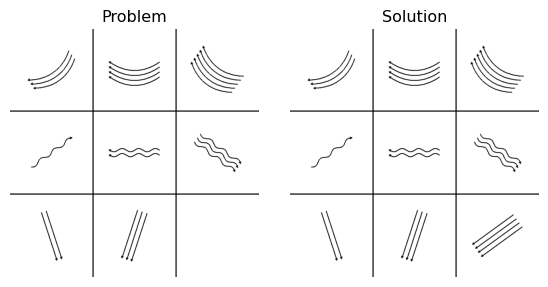
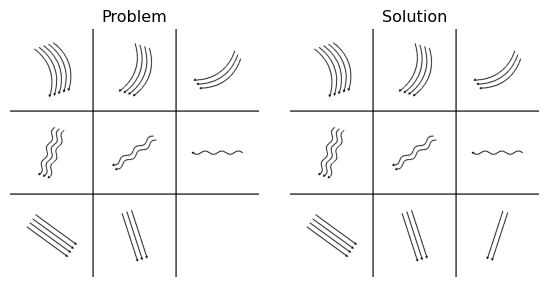
update docs

diff --git a/omss_documentation.md b/omss_documentation.md
@@ -20,6 +20,7 @@ levels.
   - [BigShape](#BigShape)
   - [LittleShape](#LittleShape)
   - [Line](#Line)
+  - [Multiple elements](#Multiple-Elements)
 - [Alternatives Generation](#alternatives-generation)
 - [Seeds](#seeds)
 - [Matrix Generation](#matrix-generation)
@@ -69,7 +70,8 @@ by the user with **Rules**.
   Default: `False`.
 
 - **`element_types`** (`list` or `None`, optional):  
-  Specifies which elements to include in the matrix.
+  Specifies which elements to include in the matrix and the order in
+  which they will be drawn.
 
   - If `None`, all elements listed in the `rules` will be used.  
     Default: `None`.
@@ -673,7 +675,82 @@ plot_matrices(solution_matrix, problem_matrix)
 
 ![](omss_documentation_files/figure-commonmark/cell-15-output-1.png)
 
-------------------------------------------------------------------------
+### Multiple Elements
+
+It is also possible to combine multiple elements into a single puzzle!
+To do this, simply expand the `rules` dictionary by adding rule sets for
+additional elements.
+
+##### Examples
+
+Let’s combine a `BigShape` and a `Line` element in one puzzle. We’ll
+start by defining rules for `BigShape`, assigning a `DISTRIBUTE_THREE`
+rule to the `COLOR` attribute. Then, we’ll add a `Line` entry to the
+dictionary with a `PROGRESSION` rule for `LINENUMBER`:
+
+``` python
+import omss
+from omss import Ruletype, AttributeType, Rule, create_matrix, plot_matrices
+
+rules = {
+    'BigShape': [       
+        Rule(Ruletype.CONSTANT, AttributeType.SHAPE),
+        Rule(Ruletype.CONSTANT, AttributeType.ANGLE),
+        Rule(Ruletype.DISTRIBUTE_THREE, AttributeType.COLOR),
+        Rule(Ruletype.CONSTANT, AttributeType.NUMBER),
+        Rule(Ruletype.FULL_CONSTANT, AttributeType.SIZE, value = 'medium')],
+
+      'Line': [       
+        Rule(Ruletype.CONSTANT, AttributeType.LINETYPE),
+        Rule(Ruletype.CONSTANT, AttributeType.ANGLE),
+        Rule(Ruletype.PROGRESSION, AttributeType.LINENUMBER)]}
+    
+
+#create the matrices
+solution_matrix, problem_matrix, = create_matrix(rules, save = False)
+
+#plot the matrices
+plot_matrices(solution_matrix, problem_matrix)
+```
+
+![](omss_documentation_files/figure-commonmark/cell-16-output-1.png)
+
+As you can see, the `Line` element is placed on top of the `BigShape`
+element. Elements that are defined later in the dictionairy are drawn
+upon earlier elements.
+
+It is also possible to adjust the rendering order of elements, or
+exclude certain elements entirely, by using the **`element_types`**
+argument. For example, even if `BigShape` is defined in the `rules`
+dictionary, we can omit it from being rendered by only specifying the
+`Line` element in `element_types`.
+
+``` python
+import omss
+from omss import Ruletype, AttributeType, Rule, create_matrix, plot_matrices
+
+rules = {
+    'BigShape': [       
+        Rule(Ruletype.CONSTANT, AttributeType.SHAPE),
+        Rule(Ruletype.CONSTANT, AttributeType.ANGLE),
+        Rule(Ruletype.DISTRIBUTE_THREE, AttributeType.COLOR),
+        Rule(Ruletype.CONSTANT, AttributeType.NUMBER),
+        Rule(Ruletype.FULL_CONSTANT, AttributeType.SIZE, value = 'medium')],
+
+      'Line': [       
+        Rule(Ruletype.CONSTANT, AttributeType.LINETYPE),
+        Rule(Ruletype.CONSTANT, AttributeType.ANGLE),
+        Rule(Ruletype.PROGRESSION, AttributeType.LINENUMBER)]}
+    
+
+#create the matrices
+solution_matrix, problem_matrix, = create_matrix(rules, save = False, element_types = ['Line'])
+
+#plot the matrices
+plot_matrices(solution_matrix, problem_matrix)
+```
+
+![](omss_documentation_files/figure-commonmark/cell-17-output-1.png)
 
 ## Alternatives Generation
 
@@ -744,7 +821,7 @@ solution_matrix, problem_matrix, alternatives = create_matrix(rules, alternative
 plot_matrices(solution_matrix, problem_matrix, alternatives)
 ```
 
-![](omss_documentation_files/figure-commonmark/cell-16-output-1.png)
+![](omss_documentation_files/figure-commonmark/cell-18-output-1.png)
 
 As you can see, both the `COLOR` and `LITTLESHAPENUMBER` attributes were
 modified in the alternatives. This makes sense: they were the only
@@ -773,7 +850,7 @@ solution_matrix, problem_matrix, alternatives = create_matrix(rules, alternative
 plot_matrices(solution_matrix, problem_matrix, alternatives)
 ```
 
-![](omss_documentation_files/figure-commonmark/cell-17-output-1.png)
+![](omss_documentation_files/figure-commonmark/cell-19-output-1.png)
 
 Voilà! The alternatives are now still modified in terms of
 `LITTLESHAPENUMBER`, as this attribute is governed by a `PROGRESSION`
@@ -814,7 +891,7 @@ solution_matrix, problem_matrix, alternatives = create_matrix(rules, alternative
 plot_matrices(solution_matrix, problem_matrix, alternatives)
 ```
 
-![](omss_documentation_files/figure-commonmark/cell-18-output-1.png)
+![](omss_documentation_files/figure-commonmark/cell-20-output-1.png)
 
 In this case, the `Line` element remains unchanged in the alternatives.
 This is because all variation within the matrix comes from the `SHAPE`
@@ -859,7 +936,7 @@ solution_matrix, problem_matrix, alternatives = create_matrix(rules, alternative
 plot_matrices(solution_matrix, problem_matrix, alternatives)
 ```
 
-![](omss_documentation_files/figure-commonmark/cell-19-output-1.png)
+![](omss_documentation_files/figure-commonmark/cell-21-output-1.png)
 
 ### Dissimilarity Score
 
@@ -927,7 +1004,7 @@ solution_matrix, problem_matrix, alternatives = create_matrix(rules, alternative
 plot_matrices(solution_matrix, problem_matrix, alternatives)
 ```
 
-![](omss_documentation_files/figure-commonmark/cell-20-output-1.png)
+![](omss_documentation_files/figure-commonmark/cell-22-output-1.png)
 
 As expected, the matrix now looks exactly the same each time you run it!
 However, the alternatives might still differ between runs, since their
@@ -958,7 +1035,7 @@ solution_matrix, problem_matrix, alternatives = create_matrix(rules, alternative
 plot_matrices(solution_matrix, problem_matrix, alternatives)
 ```
 
-![](omss_documentation_files/figure-commonmark/cell-21-output-1.png)
+![](omss_documentation_files/figure-commonmark/cell-23-output-1.png)
 
 It is also possible to set a seed for the alternatives **without setting
 a seed for the matrix**. In this case, the alternatives become more
@@ -1097,12 +1174,12 @@ solution_matrix, problem_matrix = create_matrix(rules, save = False)
 plot_matrices(solution_matrix, problem_matrix)
 ```
 
-![](omss_documentation_files/figure-commonmark/cell-22-output-1.png)
+![](omss_documentation_files/figure-commonmark/cell-24-output-1.png)
 
 ### 2. Save Directly to Local Folder
 
-aaaa This is the **recommended method**, especially if you’re generating
-a large number of puzzles.
+This is the **recommended method**, especially if you’re generating a
+large number of puzzles.
 
 To enable this:
 
@@ -1183,8 +1260,8 @@ print(output_file)
     }
 
     SEEDS
-    seed = 681310
-    alternative seed = 107043
+    seed = 289591
+    alternative seed = 315853
 
     ALTERNATIVES
     number of alternatives: 2
